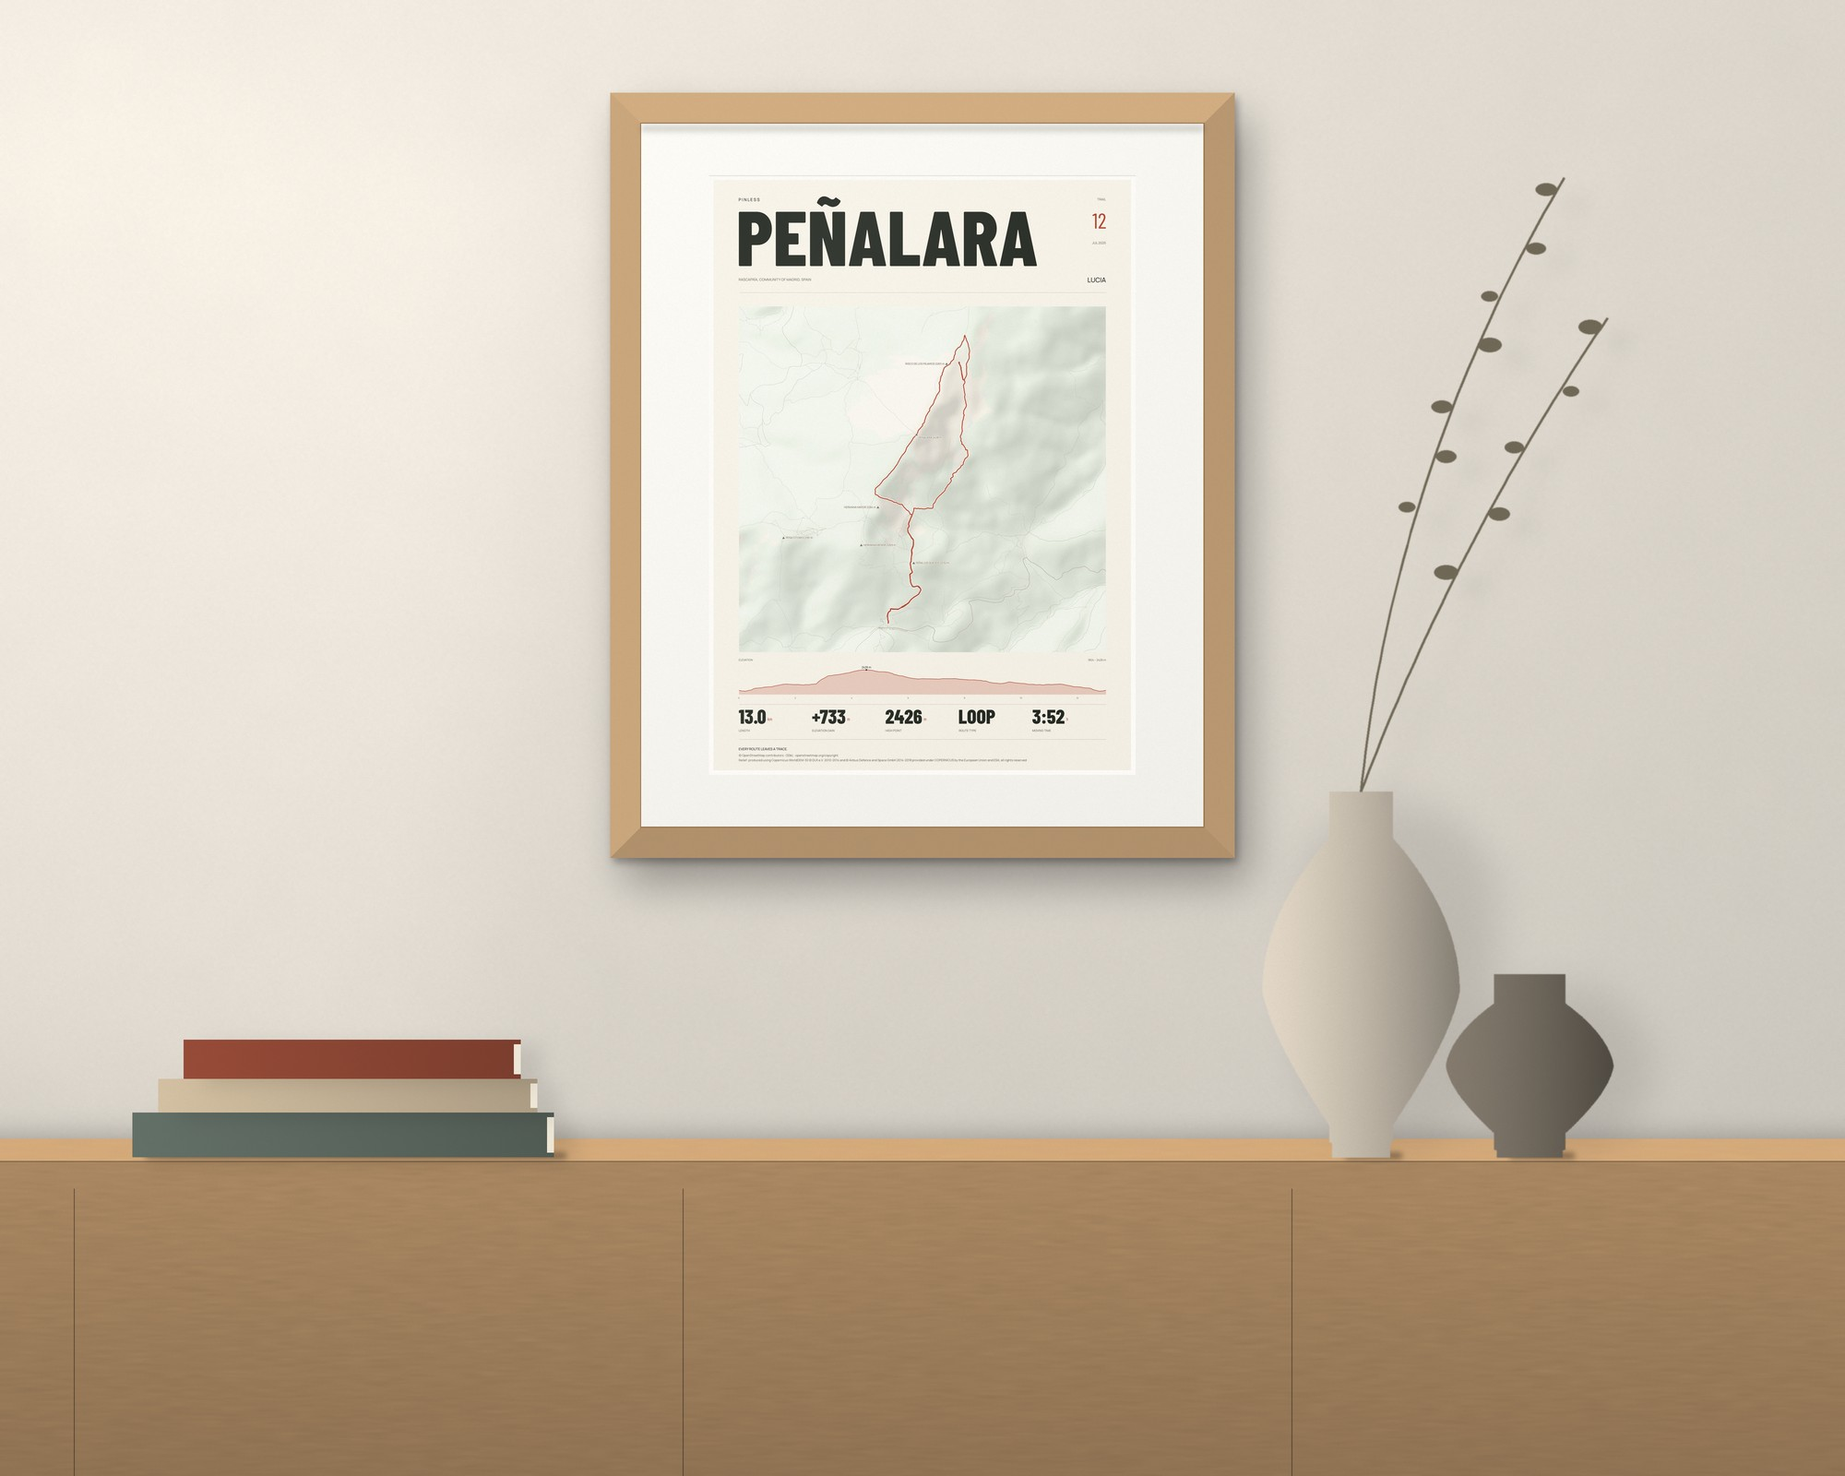
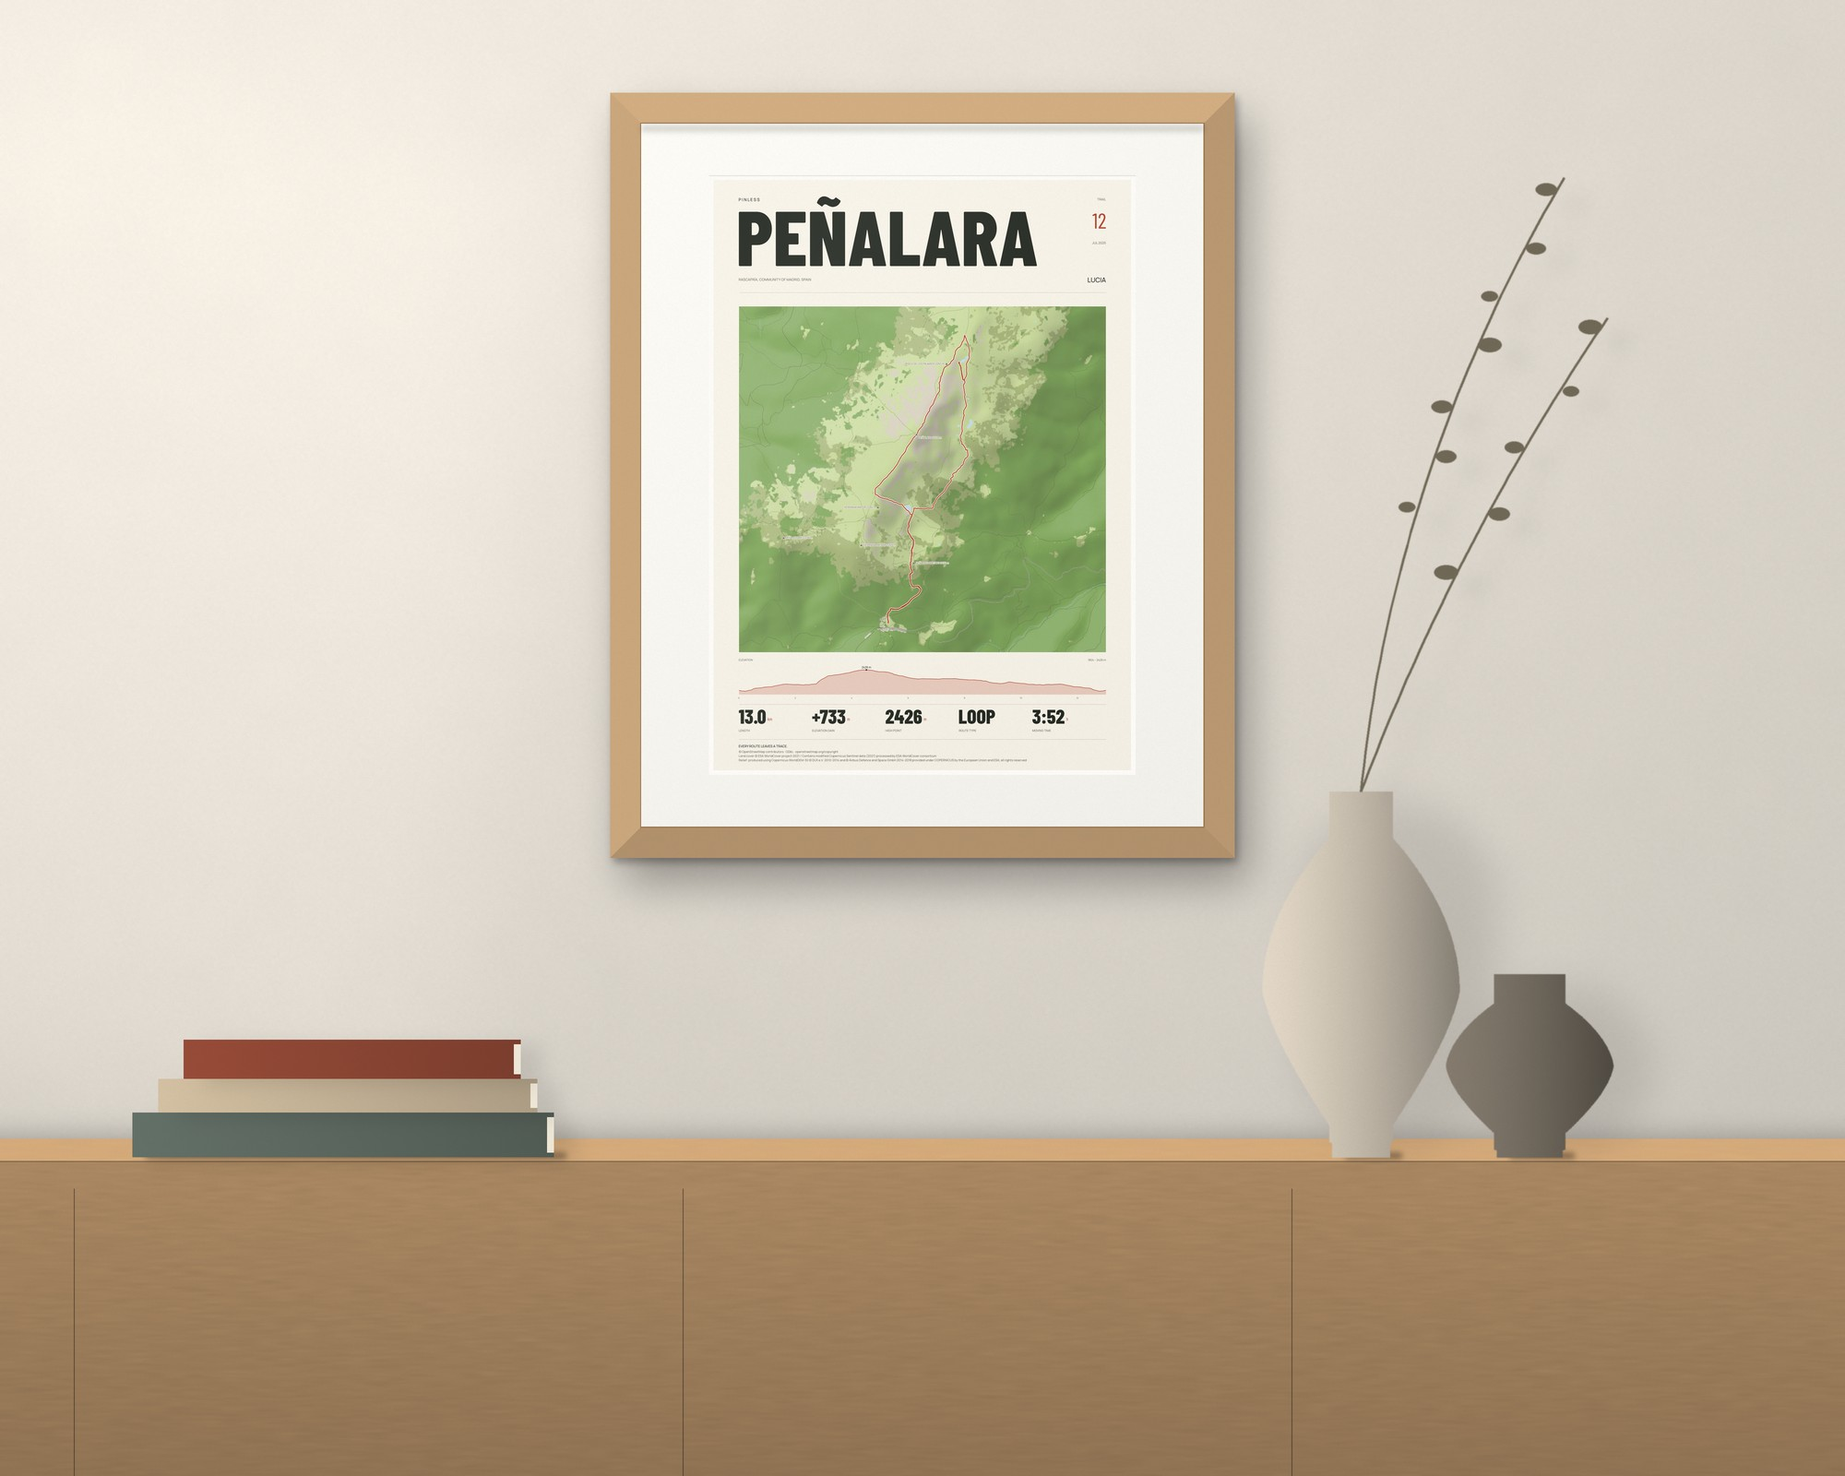
README and skill: the trail print's ground, Penalara green and Tabernas orange
The trail section shows the Penalara print over its woods and meadows next to the Tabernas print
over its badlands, then the wall mockup redrawn with the new Penalara. One paragraph says what
--ground does, how a dry land is told from a mountain and when the course takes another ink;
the options table gains --ground; privacy item 5 says what the WorldCover request learns; the
credits quote the CC BY 4.0 licence, the 2021 v200 citation and the attribution line printed on
the poster. The skill says that the trail print also asks S3 for the land cover and how to turn
it off. The --ground help now names stone rock and the dry-land colours.

Changed region(s): [[0.403, 0.1875, 0.62, 0.4688], [0.403, 0.5, 0.434, 0.5312]]

diff --git a/pinless/cli.py b/pinless/cli.py
@@ -96,8 +96,8 @@ def main(argv=None):
                         "your routes); downloaded once (cached); flat areas get none. Default: shade for the trail "
                         "layout, off for the others")
     p.add_argument("--ground", default=None, choices=["nature", "style"],
-                   help="trail: nature (default) paints the map's ground in the colours of the land, green woods, "
-                        "light green meadows, wheat fields, ochre bare land and deserts, white snow, from ESA "
+                   help="trail: nature (default) paints the map's ground in the colours of the land, green woods "
+                        "and meadows, wheat fields, stone rock, white snow, straw and orange in a dry land, from ESA "
                         "WorldCover on Amazon S3 (only the 3-degree tiles around the map are requested; downloaded "
                         "once, cached); style keeps the plain paper of the style")
     p.add_argument("--with", dest="with_export", default=None, metavar="EXPORT",

diff --git a/README.md b/README.md
@@ -39,6 +39,7 @@ Five prints from the same export: [a year in your city](#what-you-get), [an atla
 - An optional band of charts: kilometres per month, the time of day you run and the direction of your streets (`--graphs`).
 - An atlas of every city you ran in (`--layout atlas`), a finisher print of one race (`--layout race`) and a trail print of one hike or mountain route (`--layout trail`), all below.
 - Shaded terrain relief where your area has hills (`--relief shade`, on by default for the trail print), from the Copernicus elevation model. It sits under the routes, quieter than the faintest of them, and stays off the water; flat cities get none.
+- On the trail print, the ground in the colours of the land, from the ESA WorldCover map: green woods and meadows on a mountain walk, straw and orange in a desert, white snow (`--ground nature`, the default there).
 - One poster for two people, one ink each (`--with`), below.
 
 ## Your own style
@@ -103,10 +104,13 @@ A run that starts or ends at one of your private places (a long run from home) i
 ## Trail: one route as a print
 
 <p align="center">
-  <img src="docs/trail.jpg" width="40%" alt="Trail print of a loop over Penalara in the Sierra de Guadarrama, with terrain relief, paths, named summits, the elevation profile and the route numbers">
-  <img src="docs/wall-trail.jpg" width="58%" alt="The trail print in an oak frame hung above a sideboard">
+  <img src="docs/trail.jpg" width="49%" alt="Trail print of a loop over Penalara in the Sierra de Guadarrama: green pine woods and meadows, the granite ridge in stone grey, terrain relief, paths, named summits, the elevation profile and the route numbers">
+  <img src="docs/trail-desert.jpg" width="49%" alt="Trail print of a walk in the Desierto de Tabernas: the badlands in desert orange, the steppe in straw and olive, terrain relief, paths, the elevation profile and the route numbers">
 </p>
-<p align="center"><sub>Demo route: a synthetic hike on real OpenStreetMap paths, with heights from the Copernicus elevation model (<code>tools/simulate_hike.py</code>), not a real person's walk. Try it with <code>pinless demo/hike_demo.gpx --layout trail --title "Peñalara"</code>.</sub></p>
+<p align="center">
+  <img src="docs/wall-trail.jpg" width="80%" alt="The Penalara trail print in an oak frame hung above a sideboard">
+</p>
+<p align="center"><sub>Demo routes: synthetic hikes on real OpenStreetMap paths, with heights from the Copernicus elevation model (<code>tools/simulate_hike.py</code>), not a real person's walks. Try them with <code>pinless demo/hike_demo.gpx --layout trail --title "Peñalara"</code> and <code>pinless demo/hike_desert_demo.gpx --layout trail --title "Tabernas"</code>.</sub></p>
 
 ```bash
 pinless my-hike.gpx --layout trail --title "Peñalara" --name "Lucia"
@@ -114,6 +118,8 @@ pinless export_12345678.zip --layout trail --activity 2025-07-12 --title "Peñal
 ```
 
 One hike, trail run or mountain loop on a topographic map: terrain relief (on by default for this print, `--relief off` turns it off), paths and tracks drawn stronger than on a city poster, roads over the relief in an ink at least as strong, woods and water, and up to six named summits with their heights. Under the map, the elevation profile with its highest point marked, and the route's length, elevation gain, high point, route type (loop, out and back or point to point) and time; when the clock shows pauses longer than two minutes, the moving time. The route is drawn in the style's accent colour, or coloured by `--color-by elevation` or `pace`.
+
+The map's ground takes the colours of the land (`--ground nature`, on by default for this print), from the ESA WorldCover map of 2021 at 10 m, under the relief: woods green, meadows a lighter green, scrub sage, fields wheat, marshes teal, rock and scree a light stone, snow and glaciers blue white, towns a warm grey, lakes and rivers blue. In a dry land the grass and scrub take the straw and olive of a steppe and the bare ground the orange of a desert. WorldCover alone cannot tell a desert from a high mountain (both are grass and bare ground), so where the map lies decides: south of about 37 to 42 degrees of latitude (north of it in the southern hemisphere) with a sixth or more of bare ground, or three quarters bare anywhere, and never with snow or tundra. On dark styles the same colours are pulled towards the paper, so the poster stays dark. Where the style's accent would sink into the ground under the route (the forest style's green on woods), the route takes a deep red, a deep blue or black (white on dark paper), and the log says so. `--ground style` keeps the plain paper of the style.
 
 The export can be a Strava export or a single GPX, TCX or FIT file, as a trail app, a route planner or a watch downloads it. Every activity type counts for this print (`--type Hike` narrows the choice), and `--activity` picks one as for the race print. The headline is the place unless you give one with `--title`: the activity's own name is not printed by default, because names often say where a walk starts.
 
@@ -202,7 +208,7 @@ A heatmap of your runs shows where you live. Pinless removes that before drawing
 3. It checks the result. If any line still touches a zone, nothing is exported.
    The race print works on a single course and always draws one unbroken stretch of it. A course that only passes one of your private places is drawn whole, since a gap in it would point at the very place it hides. A run that starts or ends at a private place (within 1.5 zone radii, in its first or last 300 m) is refused unless you pass `--allow-private-ends`, which draws only one unbroken stretch of the run that stays more than 1.6 to 2.6 zone radii (800 to 1300 m by default, drawn at random each time) from those places, wherever the run comes back to them, shortened by a random 200 to 800 m at each end that one lies beyond, with its distance, time, pace, profile, climb and splits for that stretch only; a `--zone` is always kept clear the same way. For the race print, a private place is also where two or more of your other runs start or end close to where this one does, within 1.5 zone radii of its first or last 300 m (a new home, a holiday flat, before years of history learn it). A loop from a place none of your other runs starts from (a first run from a hotel) cannot be told from a race start: it is drawn whole, and Pinless says so, so you can add a `--zone` there. The trail print follows the same rules, with the places learned from every other activity of the export whatever its type.
 4. It never prints coordinates or start points, and nothing outside the visible map is written into the PNG, PDF or SVG. The edges of an area Pinless finds from your runs, and the crop of `--fit`, are rounded outward to a grid of about 1 km, so the map's frame does not mark where a run at the edge of the area started (a partner's lodging, a hotel). Dates are printed only on the race and trail prints, where they are the point, and never an activity's own name: their headline is the place or what you write with `--title`. The favourite street is never one within 1 km of a private zone.
-5. Your files never leave your computer. Only the area is sent out: its bounding box (on that 1 km grid, when Pinless finds the area) to OpenStreetMap's Overpass service for the streets, and its centre, rounded to about 1 km, to OpenStreetMap's Nominatim for the city name (in the atlas, the same for each city). A second export (`--with`) adds no request. When the main Overpass server is busy, Pinless tries the public mirror overpass.private.coffee; to use another server, set `PINLESS_OVERPASS` to its API address. With `--relief shade` (on by default for the trail print), Pinless also downloads elevation data from the Copernicus DEM on Amazon S3, which learns which 1-degree cell, and which block of about 30 km inside it, your map covers; never your routes. Without it nothing is sent there. Downloaded elevation is cached next to the map data. Like the map data, that cache shows on your computer which areas you made posters of; delete the cache folder (`~/.cache/pinless`, or the folder in `PINLESS_CACHE`) to remove it.
+5. Your files never leave your computer. Only the area is sent out: its bounding box (on that 1 km grid, when Pinless finds the area) to OpenStreetMap's Overpass service for the streets, and its centre, rounded to about 1 km, to OpenStreetMap's Nominatim for the city name (in the atlas, the same for each city). A second export (`--with`) adds no request. When the main Overpass server is busy, Pinless tries the public mirror overpass.private.coffee; to use another server, set `PINLESS_OVERPASS` to its API address. With `--relief shade` (on by default for the trail print), Pinless also downloads elevation data from the Copernicus DEM on Amazon S3, which learns which 1-degree cell, and which block of about 30 km inside it, your map covers; never your routes. Without it nothing is sent there. With the trail print's ground (`--ground nature`, on by default for it), Pinless also downloads the ESA WorldCover land cover from Amazon S3, which learns which 3-degree tiles around the map, and which blocks of about 9 km or more inside them, your map covers; never your routes. With `--ground style` nothing is sent there. Downloaded elevation and land cover are cached next to the map data. Like the map data, that cache shows on your computer which areas you made posters of; delete the cache folder (`~/.cache/pinless`, or the folder in `PINLESS_CACHE`) to remove it.
 
 A single GPX, TCX or FIT file of one activity holds no other activities to learn your places from, whatever the layout: only `--zone` protects its ends (every print still trims its first and last 300 m), and Pinless says so. If it starts at your door, add `--zone` there. A file that holds many tracks is read as one activity per track, so their places are learned as usual.
 
@@ -233,6 +239,7 @@ A map of two people's runs can show both homes, and the visits between them, so:
 | `--color-by heat\|single\|month\|pace\|elevation`, `--graphs` | What the line colour says; the band of charts |
 | `--style huella\|carbon\|midnight\|...\|my-style.json`, `--size A4\|A3\|50x70` | One of twelve styles, or your own style file; paper |
 | `--relief off\|shade` | Terrain relief under the map where the land is hilly (off by default, on for the trail print) |
+| `--ground nature\|style` | Trail print: the map's ground in the colours of the land (default), or the style's plain paper |
 | `--lang en\|es` | Labels in English or Spanish |
 | `--out`, `--pdf`, `--svg`, `--preview` | Outputs |
 | `--zone LAT,LON,R` | Extra private zone, latitude first, radius in metres (with `--with`, it hides both people's lines). On a single map, a zone that does not touch the map stops the export: it would hide nothing |
@@ -257,7 +264,7 @@ pip install -e ".[dev]"
 pytest
 ```
 
-The demo export in `demo/` is a synthetic runner generated on real OpenStreetMap streets of Madrid by `tools/simulate_runner.py`. Its true home and work points are stored apart in `demo/truth.json`, only so the tests can check that no published line comes near them. The partner demo (`demo/strava_export_madrid_partner_demo.zip`) is a second synthetic runner with their own home and workplace, who runs some weekend runs side by side with the first one, from the first one's door; its places and the number of runs together are in `demo/truth_partner.json`. The demo hike (`demo/hike_demo.gpx`) is a synthetic loop over Peñalara built by `tools/simulate_hike.py` on OpenStreetMap paths, with heights sampled from the Copernicus elevation model; the print itself never samples heights, it only shades the relief.
+The demo export in `demo/` is a synthetic runner generated on real OpenStreetMap streets of Madrid by `tools/simulate_runner.py`. Its true home and work points are stored apart in `demo/truth.json`, only so the tests can check that no published line comes near them. The partner demo (`demo/strava_export_madrid_partner_demo.zip`) is a second synthetic runner with their own home and workplace, who runs some weekend runs side by side with the first one, from the first one's door; its places and the number of runs together are in `demo/truth_partner.json`. The demo hike (`demo/hike_demo.gpx`) is a synthetic loop over Peñalara built by `tools/simulate_hike.py` on OpenStreetMap paths, with heights sampled from the Copernicus elevation model; the print itself never samples heights, it only shades the relief. The desert demo (`demo/hike_desert_demo.gpx`, `--route tabernas`) is a synthetic walk up the badlands of the Desierto de Tabernas to below El Puntal and back, built the same way. The same tool walks two short loops to look at before a change to the colours of the ground: rice fields and marsh in the Ebro delta (`--route ebro`) and rock, snow and ice above Zermatt (`--route zermatt`), written under `out/`.
 
 The tests run offline. The street statistics use `tests/data/madrid_streets.json.gz`, a small extract of the named OpenStreetMap streets around the demo runs (ODbL). `tools/make_street_fixture.py` rebuilds it from the full Madrid graph, and its `--check` option confirms that it gives the same street counts as the full graph.
 
@@ -272,6 +279,12 @@ Terrain relief (`--relief shade`) comes from the Copernicus DEM, GLO-30, or GLO-
 
 The organisations in charge of the Copernicus programme by law or by delegation do not incur any liability for any use of the Copernicus WorldDEM-30. The organisations in charge of the Copernicus programme by law or by delegation do not incur any liability for any use of the Copernicus WorldDEM™-90.
 
-Pinless is not endorsed by the Copernicus programme. The relief is a smoothed hillshade of a surface model (modified data), not for navigation. If you share or sell a poster with relief, keep its relief notice. `tools/check_relief.py` checks the elevation reader against Pillow on real data and draws the sheets to look at before a change to the relief is merged.
+The ground of the trail print (`--ground nature`) comes from ESA WorldCover 10 m 2021 v200 (Zanaga, D. et al., 2022, ESA WorldCover 10 m 2021 v200, [doi:10.5281/zenodo.7254221](https://doi.org/10.5281/zenodo.7254221)), under the [Creative Commons Attribution 4.0 International licence](https://creativecommons.org/licenses/by/4.0/); in the words of the [WorldCover project](https://esa-worldcover.org/en/data-access), it "is provided free of charge, without restriction of use". A print with that ground carries the attribution text the project asks of a published map, with the year of the 2021 map (v200) that Pinless reads:
+
+- "© ESA WorldCover project 2021 / Contains modified Copernicus Sentinel data (2021) processed by ESA WorldCover consortium"
+
+The classes are resampled, filtered and recoloured (modified data), not for navigation. If you share or sell a poster with that ground, keep its line.
+
+Pinless is not endorsed by the Copernicus programme or the ESA WorldCover project. The relief is a smoothed hillshade of a surface model (modified data), not for navigation. If you share or sell a poster with relief, keep its relief notice. `tools/check_relief.py` checks the elevation reader against Pillow on real data and draws the sheets to look at before a change to the relief is merged.
 
 Not affiliated with Strava.

diff --git a/skills/pinless/SKILL.md b/skills/pinless/SKILL.md
@@ -16,6 +16,9 @@ description: Make a print-ready poster of a runner's year from their Strava expo
   from Amazon S3, which learns the 1-degree cells around the map and, where the land is hilly, the blocks of about
   30 km inside them that cover it (never the routes); without it nothing is sent there. `--layout trail` has it on
   by default: tell the user, and pass `--relief off` if they do not want it.
+- `--layout trail` also paints the map's ground in the colours of the land from ESA WorldCover on Amazon S3, which
+  learns only the 3-degree tiles around the map and the blocks inside them (never the routes); pass `--ground style`
+  if the user does not want that request or prefers the plain paper.
 
 ## Steps
 1. Make sure it is installed: `pinless --help`. If not: `pip install https://github.com/Lostmanu/pinless/archive/refs/heads/main.zip`.
